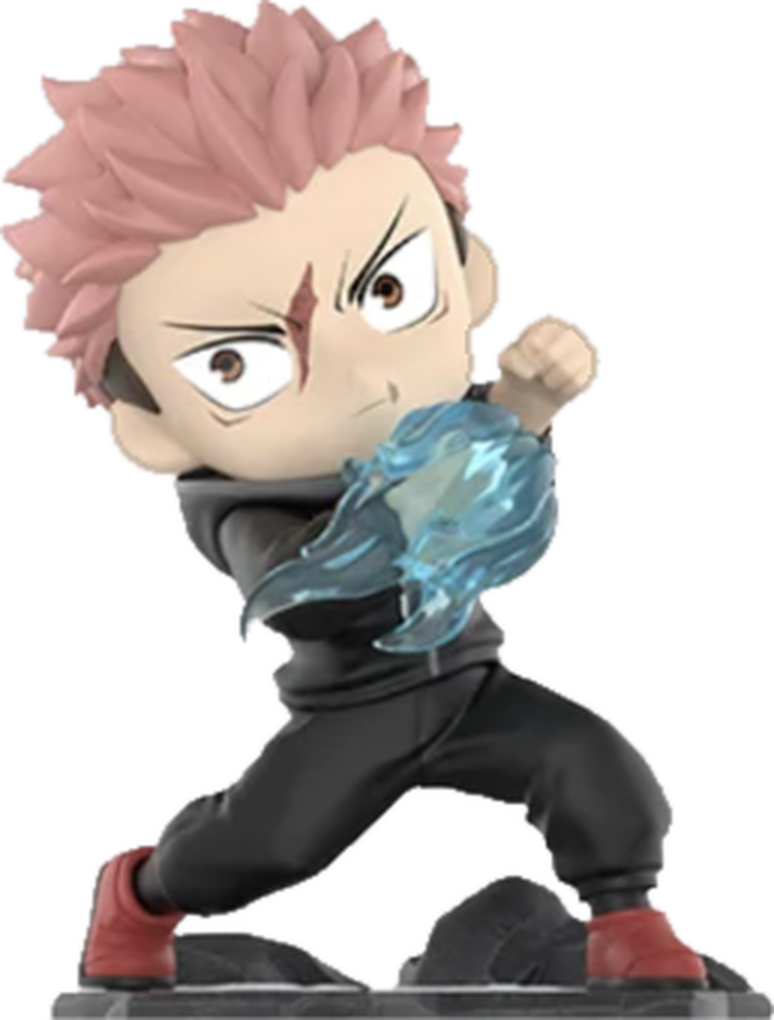
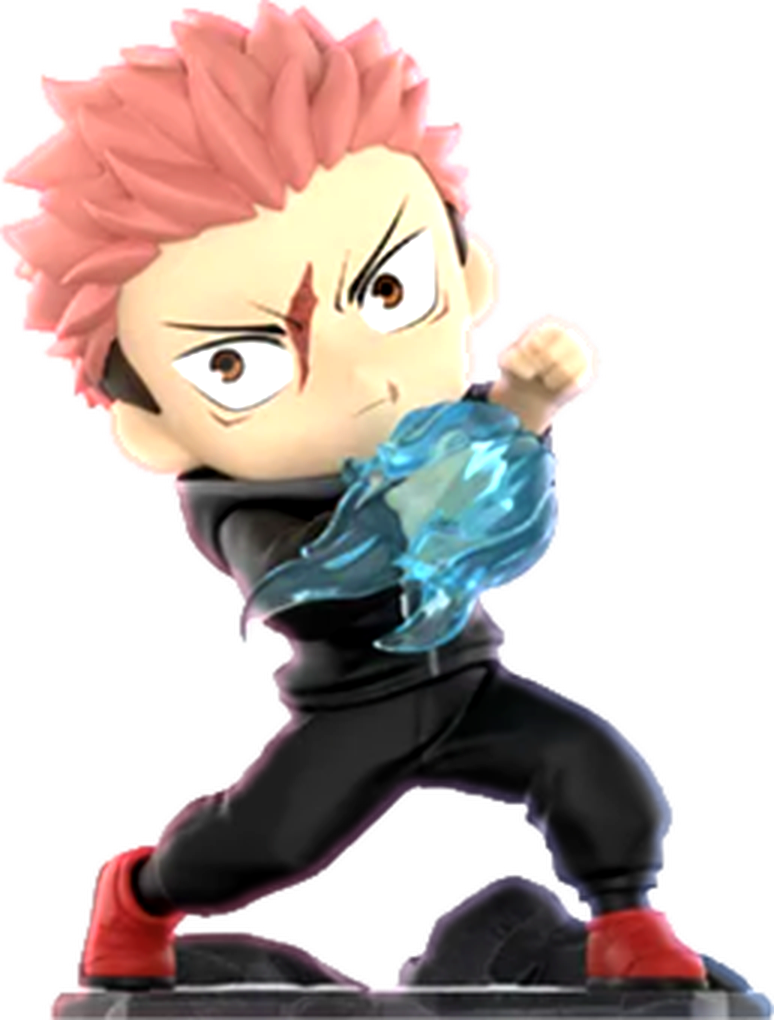
Size guide figure graded with rim light and backlight; titles in Knewave brush font

diff --git a/assets/noroi.css b/assets/noroi.css
@@ -1135,7 +1135,7 @@ body { -webkit-font-smoothing: antialiased; -moz-osx-font-smoothing: grayscale; 
 .size__figure { position: relative; height: var(--fig, 60%); aspect-ratio: 774 / 1020; }
 .size__figure img { width: 100%; height: 100%; object-fit: contain; filter: drop-shadow(0 18px 24px rgba(0,0,0,.7)); }
 
-/* Shojumaru (brush-cut Japanese display) for titles: single weight, a touch more air */
+/* Knewave (ink-brush display) for titles: single weight */
 .display, .h1, .h2, .h3, .h4, .hero__title, .pdp__title, .offer__title, .cart-page__title, .shopify-policy__title h1,
 .card__title, .step__title, .figure__name, .tracker__name, .pull__figure, .sim__name, .stats__value, .offer__amount, .offer__count, .page-title, .marquee__track, .size__specs dd, .line__title, .drawer__title {
   font-weight: 400 !important; letter-spacing: .01em !important; -webkit-font-smoothing: antialiased;
@@ -1146,3 +1146,7 @@ body { -webkit-font-smoothing: antialiased; -moz-osx-font-smoothing: grayscale; 
 .marquee span:not(.marquee__sep) { font-family: var(--font-title) !important; font-weight: 400 !important; letter-spacing: .02em; }
 /* Prices and euro amounts stay in Satoshi: Shojumaru has no € glyph */
 .offer__amount, .cart__total span:last-child, .price, .line__price { font-family: var(--font) !important; font-weight: 800 !important; letter-spacing: -.02em !important; }
+.size__figure::before { content: ''; position: absolute; left: 50%; top: 42%; width: 130%; aspect-ratio: 1; transform: translate(-50%, -50%); border-radius: 50%; background: radial-gradient(circle, rgba(var(--c-accent-rgb), .45), rgba(var(--c-aura-rgb), .15) 45%, transparent 68%); filter: blur(14px); z-index: -1; animation: figGlow 4.5s ease-in-out infinite; }
+@keyframes figGlow { 50% { opacity: .7; transform: translate(-50%, -50%) scale(1.06); } }
+.size__figure img { filter: drop-shadow(-6px 0 14px rgba(var(--c-accent-rgb), .45)) drop-shadow(6px 0 14px rgba(var(--c-aura-rgb), .35)) drop-shadow(0 22px 22px rgba(0,0,0,.8)) !important; }
+.size__figure { isolation: isolate; }
